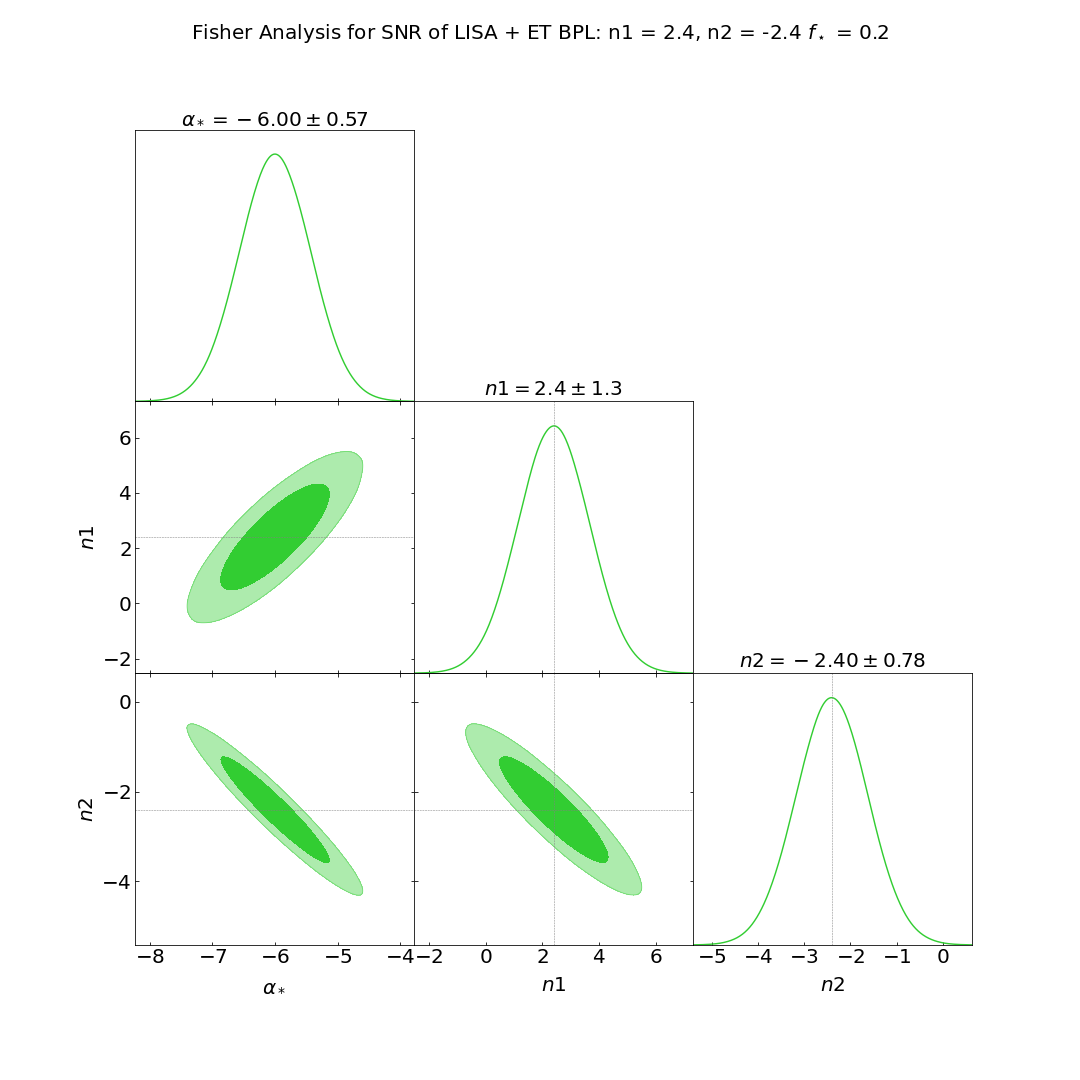
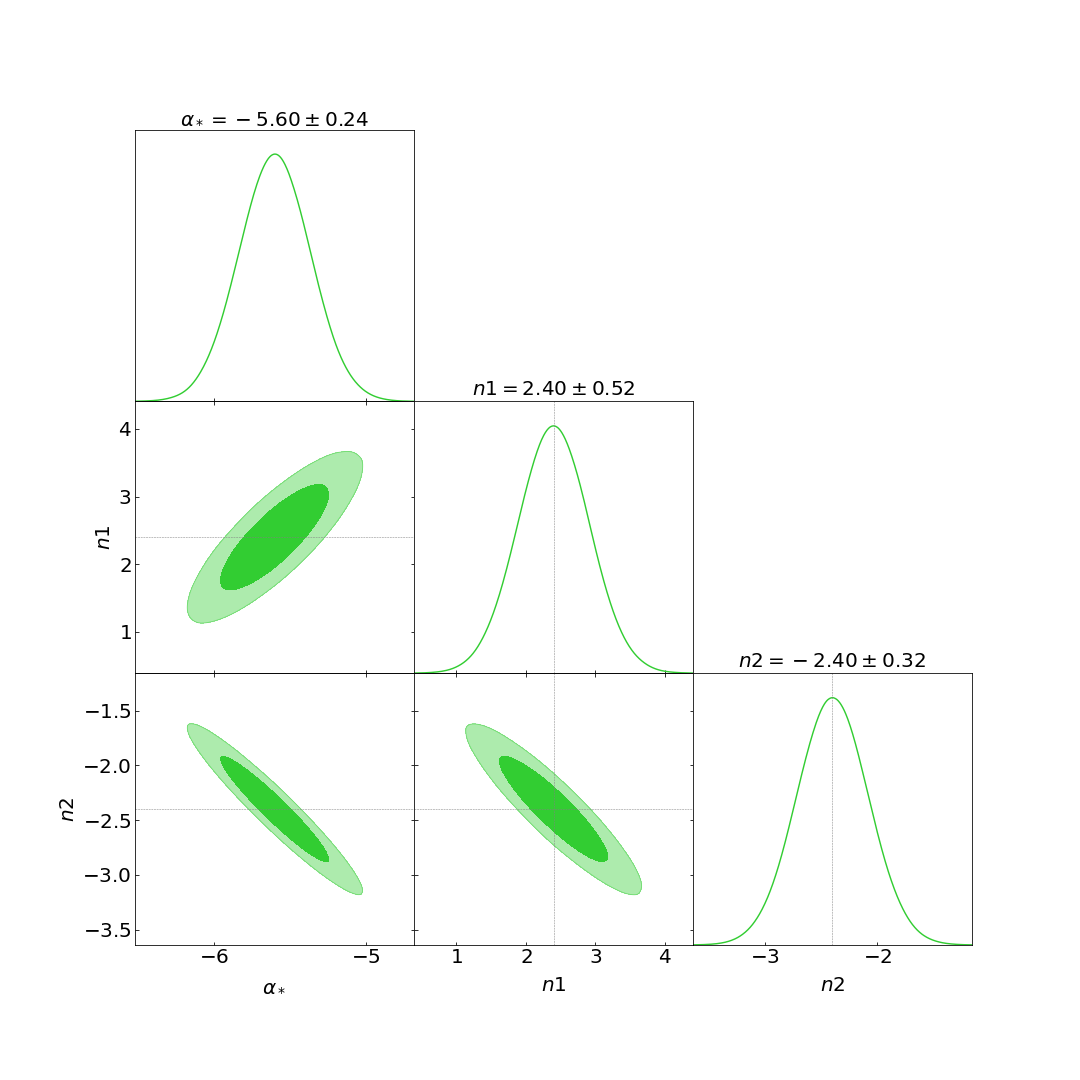
caprini lisa

diff --git a/Fisher/FisherMatrixBPLS.py b/Fisher/FisherMatrixBPLS.py
@@ -58,18 +58,18 @@ size = 20
 
 
 #case 1
-a1 = -7
-n1 = -0.1
-n2 = -2/3
-fstar = 2e-2
-s1 = 10.2
+a1 = -5.6
+n1 = 2.4
+n2 = -2.4
+fstar = 2e-1
+s1 = 1.2
 
 #case 2
-a2 = -7
-nom1 = -0.1
+a2 = -6
+nom1 = 3
 nom2 = -1
-fbreak = 2e-2
-s2 = 10.2
+fbreak = 5e-2
+s2 = 7.2
 #%%
 
 def f00(f0, n1, n2, astar, s):
@@ -138,8 +138,8 @@ g.settings.legend_fontsize = size
 g.settings.axes_labelsize = size
 g.triangle_plot([samples], contour_colors = ['Green'], 
                 filled=True, markers={r'\alpha_*': meansA[0],'n1': meansA[1], 'n2':meansA[2]}, title_limit=1)
-plt.suptitle(r'Fisher Analysis for SNR of LISA BPL case 1: n1 = {nom1}, n2 = {nom2} $f_\star$ = {fbreak}'.format(nom1=n1, nom2=n2, fbreak=fstar), fontsize=size)
-# plt.savefig('/Users/alisha/Documents/LISA_ET/Fisher graphs/FISHER_LISA_Cosmic1.png')
+# plt.suptitle(r'Fisher Analysis for SNR of LISA BPL case 1: n1 = {nom1}, n2 = {nom2} $f_\star$ = {fbreak}'.format(nom1=n1, nom2=n2, fbreak=fstar), fontsize=size)
+plt.savefig('/Users/alisha/Documents/LISA_ET/Fisher graphs/FISHER_LISA_Phase1.png')
 #%%
 g = plots.get_subplot_plotter(subplot_size=5)
 g.settings.axes_fontsize=size
@@ -147,8 +147,8 @@ g.settings.legend_fontsize = size
 g.settings.axes_labelsize = size
 g.triangle_plot([samples2], contour_colors = ['darkblue'], 
                 filled=True, markers={r'\alpha_*': meansB[0],'n1': meansB[1], 'n2':meansB[2]}, title_limit=1)
-plt.suptitle(r'Fisher Analysis for SNR of LISA BPL: n1 = {nom1}, n2 = {nom2} $f_\star$ = {fbreak}'.format(nom1=nom1, nom2=nom2, fbreak=fbreak), fontsize=size)
-# plt.savefig('/Users/alisha/Documents/LISA_ET/Fisher graphs/FISHER_LISA_Cosmic2.png')
+# plt.suptitle(r'Fisher Analysis for SNR of LISA BPL: n1 = {nom1}, n2 = {nom2} $f_\star$ = {fbreak}'.format(nom1=nom1, nom2=nom2, fbreak=fbreak), fontsize=size)
+plt.savefig('/Users/alisha/Documents/LISA_ET/Fisher graphs/FISHER_LISA_Phase2.png')
 
 #%%
 def sigp(f):
@@ -228,8 +228,8 @@ g.settings.legend_fontsize = size
 g.settings.axes_labelsize = size
 g.triangle_plot([samples], contour_colors = ['forestgreen'], 
                 filled=True, markers={r'\alpha_*': meansA[0],'n1': meansA[1], 'n2':meansA[2]}, title_limit=1)
-plt.suptitle(r'Fisher Analysis for SNR of ET BPL case 1: n1 = {nom1}, n2 = {nom2} $f_\star$ = {fbreak}'.format(nom1=n1, nom2=n2, fbreak=fstar), fontsize=size)
-# plt.savefig('/Users/alisha/Documents/LISA_ET/Fisher graphs/FISHER_ET_cosmic1.png')
+# plt.suptitle(r'Fisher Analysis for SNR of ET BPL case 1: n1 = {nom1}, n2 = {nom2} $f_\star$ = {fbreak}'.format(nom1=n1, nom2=n2, fbreak=fstar), fontsize=size)
+plt.savefig('/Users/alisha/Documents/LISA_ET/Fisher graphs/FISHER_ET_Phase1.png')
 #%%
 g = plots.get_subplot_plotter(subplot_size=5)
 g.settings.axes_fontsize=size
@@ -237,8 +237,8 @@ g.settings.legend_fontsize = size
 g.settings.axes_labelsize = size
 g.triangle_plot([samples2], contour_colors = ['mediumblue'], 
                 filled=True, markers={r'\alpha_*': meansB[0],'n1': meansB[1], 'n2': meansB[2]}, title_limit=1)
-plt.suptitle(r'Fisher Analysis for SNR of ET BPL: n1 = {nom1}, n2 = {nom2} $f_\star$ = {fbreak}'.format(nom1=nom1, nom2=nom2, fbreak=fbreak), fontsize=size)
-# plt.savefig('/Users/alisha/Documents/LISA_ET/Fisher graphs/FISHER_ET_cosmic2.png')
+# plt.suptitle(r'Fisher Analysis for SNR of ET BPL: n1 = {nom1}, n2 = {nom2} $f_\star$ = {fbreak}'.format(nom1=nom1, nom2=nom2, fbreak=fbreak), fontsize=size)
+plt.savefig('/Users/alisha/Documents/LISA_ET/Fisher graphs/FISHER_ET_Phase2.png')
 
 #%%
 #all together now
@@ -362,8 +362,8 @@ g.settings.legend_fontsize = size
 g.settings.axes_labelsize = size
 g.triangle_plot([samples], contour_colors = ['limegreen'], 
                 filled=True, markers={r'\alpha_*': meansA[0],'n1': meansA[1], 'n2':meansA[2]}, title_limit=1)
-plt.suptitle(r'Fisher Analysis for SNR of LISA + ET BPL: n1 = {nom1}, n2 = {nom2} $f_\star$ = {fbreak}'.format(nom1=n1, nom2=n2, fbreak=fstar), fontsize=size)
-# plt.savefig('/Users/alisha/Documents/LISA_ET/Fisher graphs/FISHER_Comb_cosmic1.png')
+# plt.suptitle(r'Fisher Analysis for SNR of LISA + ET BPL: n1 = {nom1}, n2 = {nom2} $f_\star$ = {fbreak}'.format(nom1=n1, nom2=n2, fbreak=fstar), fontsize=size)
+plt.savefig('/Users/alisha/Documents/LISA_ET/Fisher graphs/FISHER_Comb_Phase1.png')
 
 g = plots.get_subplot_plotter(subplot_size=5)
 g.settings.axes_fontsize=20
@@ -371,8 +371,8 @@ g.settings.legend_fontsize = 20
 g.settings.axes_labelsize = 20
 g.triangle_plot([samples2], contour_colors = ['blue'], 
                 filled=True, markers={r'\alpha_*': meansB[0],'n1': meansB[1], 'n2':meansB[2]}, title_limit=1)
-plt.suptitle(r'Fisher Analysis for SNR of LISA + ET BPL: n1 = {nom1}, n2 = {nom2} $f_\star$ = {fbreak}'.format(nom1=nom1, nom2=nom2, fbreak=fbreak), fontsize=size)
-# plt.savefig('/Users/alisha/Documents/LISA_ET/Fisher graphs/FISHER_Comb_cosmic2.png')
+# plt.suptitle(r'Fisher Analysis for SNR of LISA + ET BPL: n1 = {nom1}, n2 = {nom2} $f_\star$ = {fbreak}'.format(nom1=nom1, nom2=nom2, fbreak=fbreak), fontsize=size)
+plt.savefig('/Users/alisha/Documents/LISA_ET/Fisher graphs/FISHER_Comb_Phase2.png')
 
 
 

diff --git a/Sensitivity curves.py b/Sensitivity curves.py
@@ -22,7 +22,7 @@ Rae = r1-r2
 yr = 365*24*60*60 #in seconds
 H0 = 100*0.67*10**(3)/(3.086*10**(22)) #1/seconds
 pi = np.pi
-
+c = 3e8
 fetstar = 10**(-2)
 fi = 0.4*10**(-3)
 #For the LISA mission they have designed the
@@ -79,12 +79,6 @@ tabET2 = tabET[col2 < 10**(-5)] #this looks at the second column for values less
 # plt.grid(True)
 # plt.show()
 #%%
-# def sigp(f):
-#     res = 1.3*((3*30*10**(-1)*f**(-30)+5*10**(-6)*f**(-4.5)+0.6*10**(-11)*f**(2.8))
-#                *(1/2-1/2*np.tanh(0.1*(f-42)))+(1/2*np.tanh(0.1*(f-42)))*(2*10**(-11)*f**2.25 
-#                                                                          +10**(-13)*f**3))
-#     return res
-
 def sigp(f):
     res = 0.9 * ((3 * 30 * 10**(-1) * f**(-30) + 5.5 * 10**(-6) * f**(-4.5) + 
             0.7 * 10**(-11) * f**(2.8)) * (1/2 - 
@@ -142,7 +136,7 @@ plt.show()
 #This is the function for calculating the A_min values
 #I separate the integration into 4 to help with the accuracy and avoid warnings
 def AETmin(nt):
-    integrand = lambda f, nt:((f/fetstar)**(nt)/sigETapp(f))**2
+    integrand = lambda f, nt:(((f/fetstar)**(nt))/sigETapp(f))**2
     I1 = quad(integrand, 1.6, 100, args=(nt))[0]
     I2 = quad(integrand, 100, 445, args = (nt))[0]
     res = snr5/np.sqrt(T*sum((I1, I2)))
